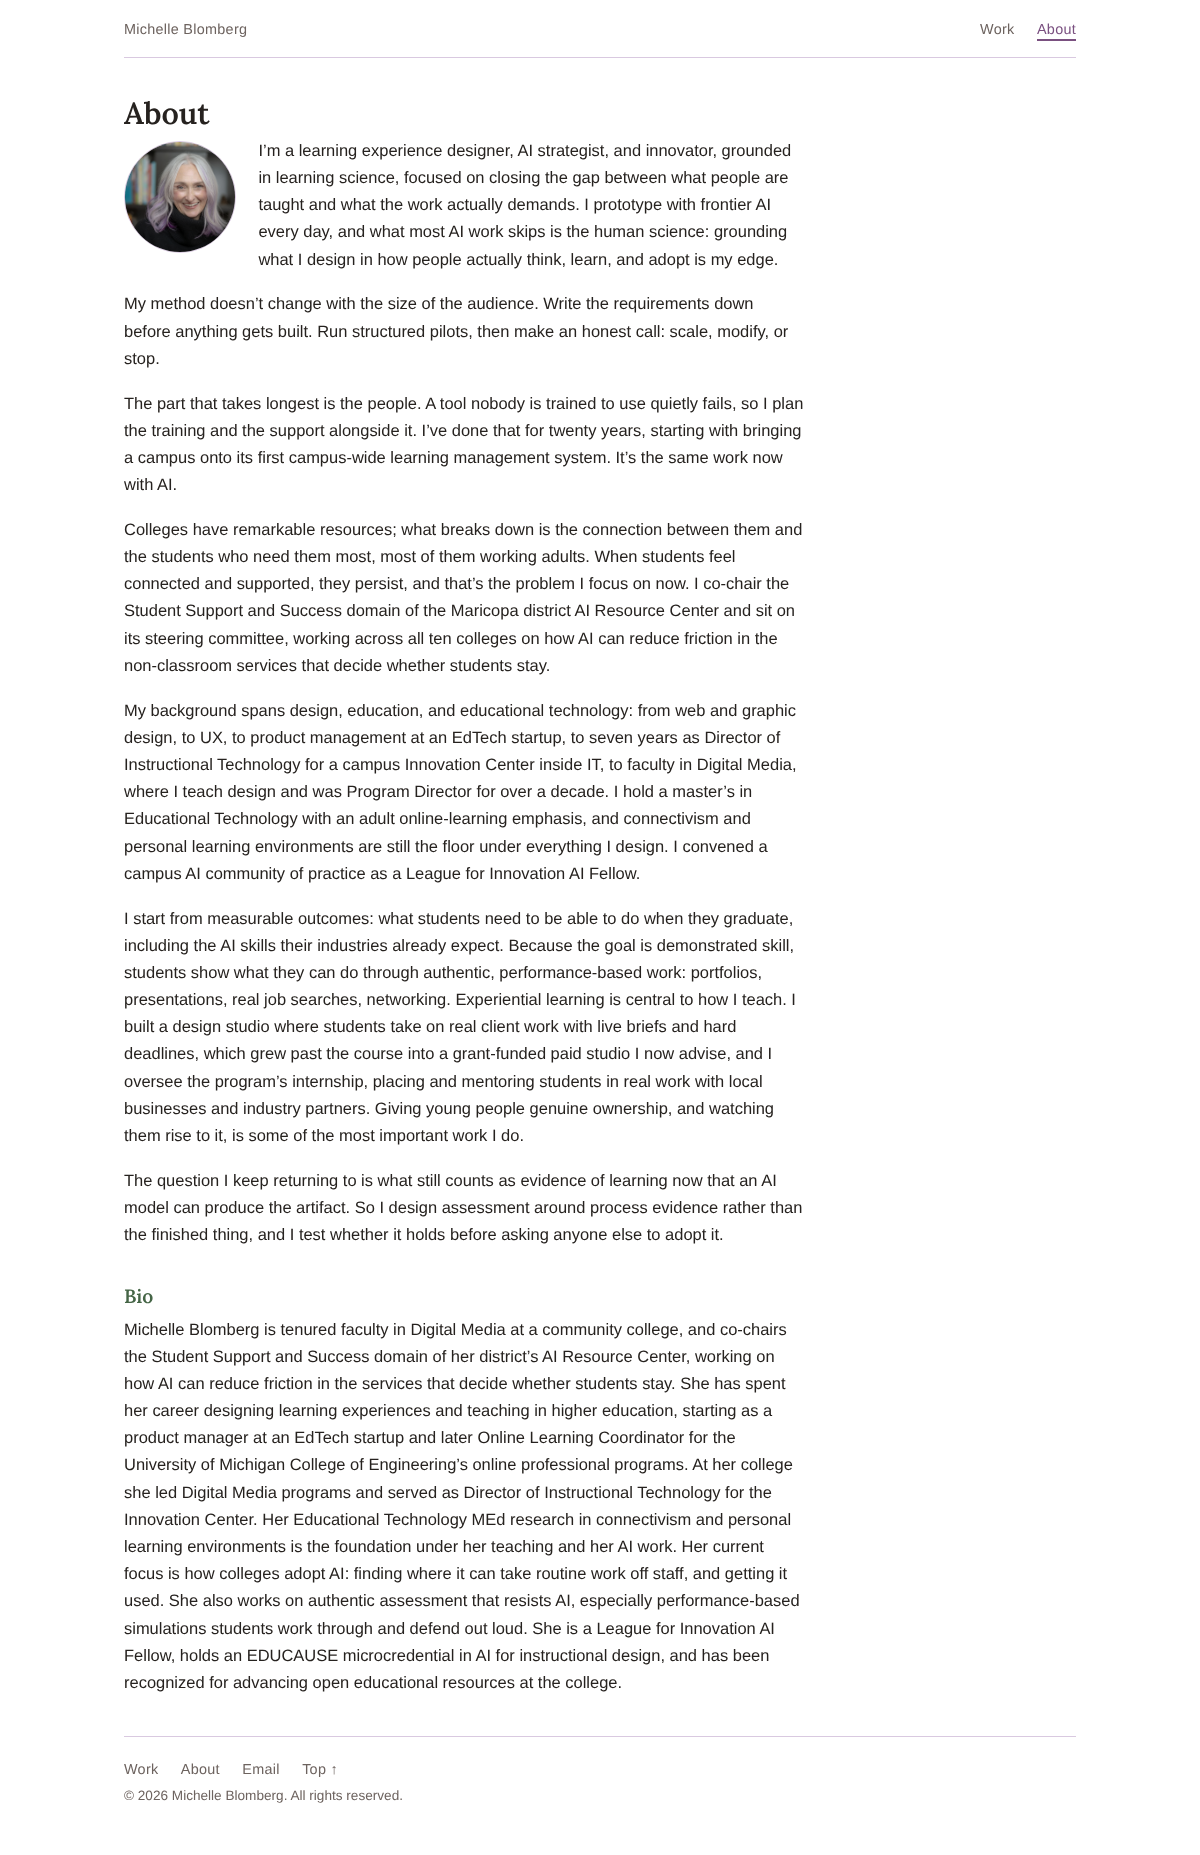
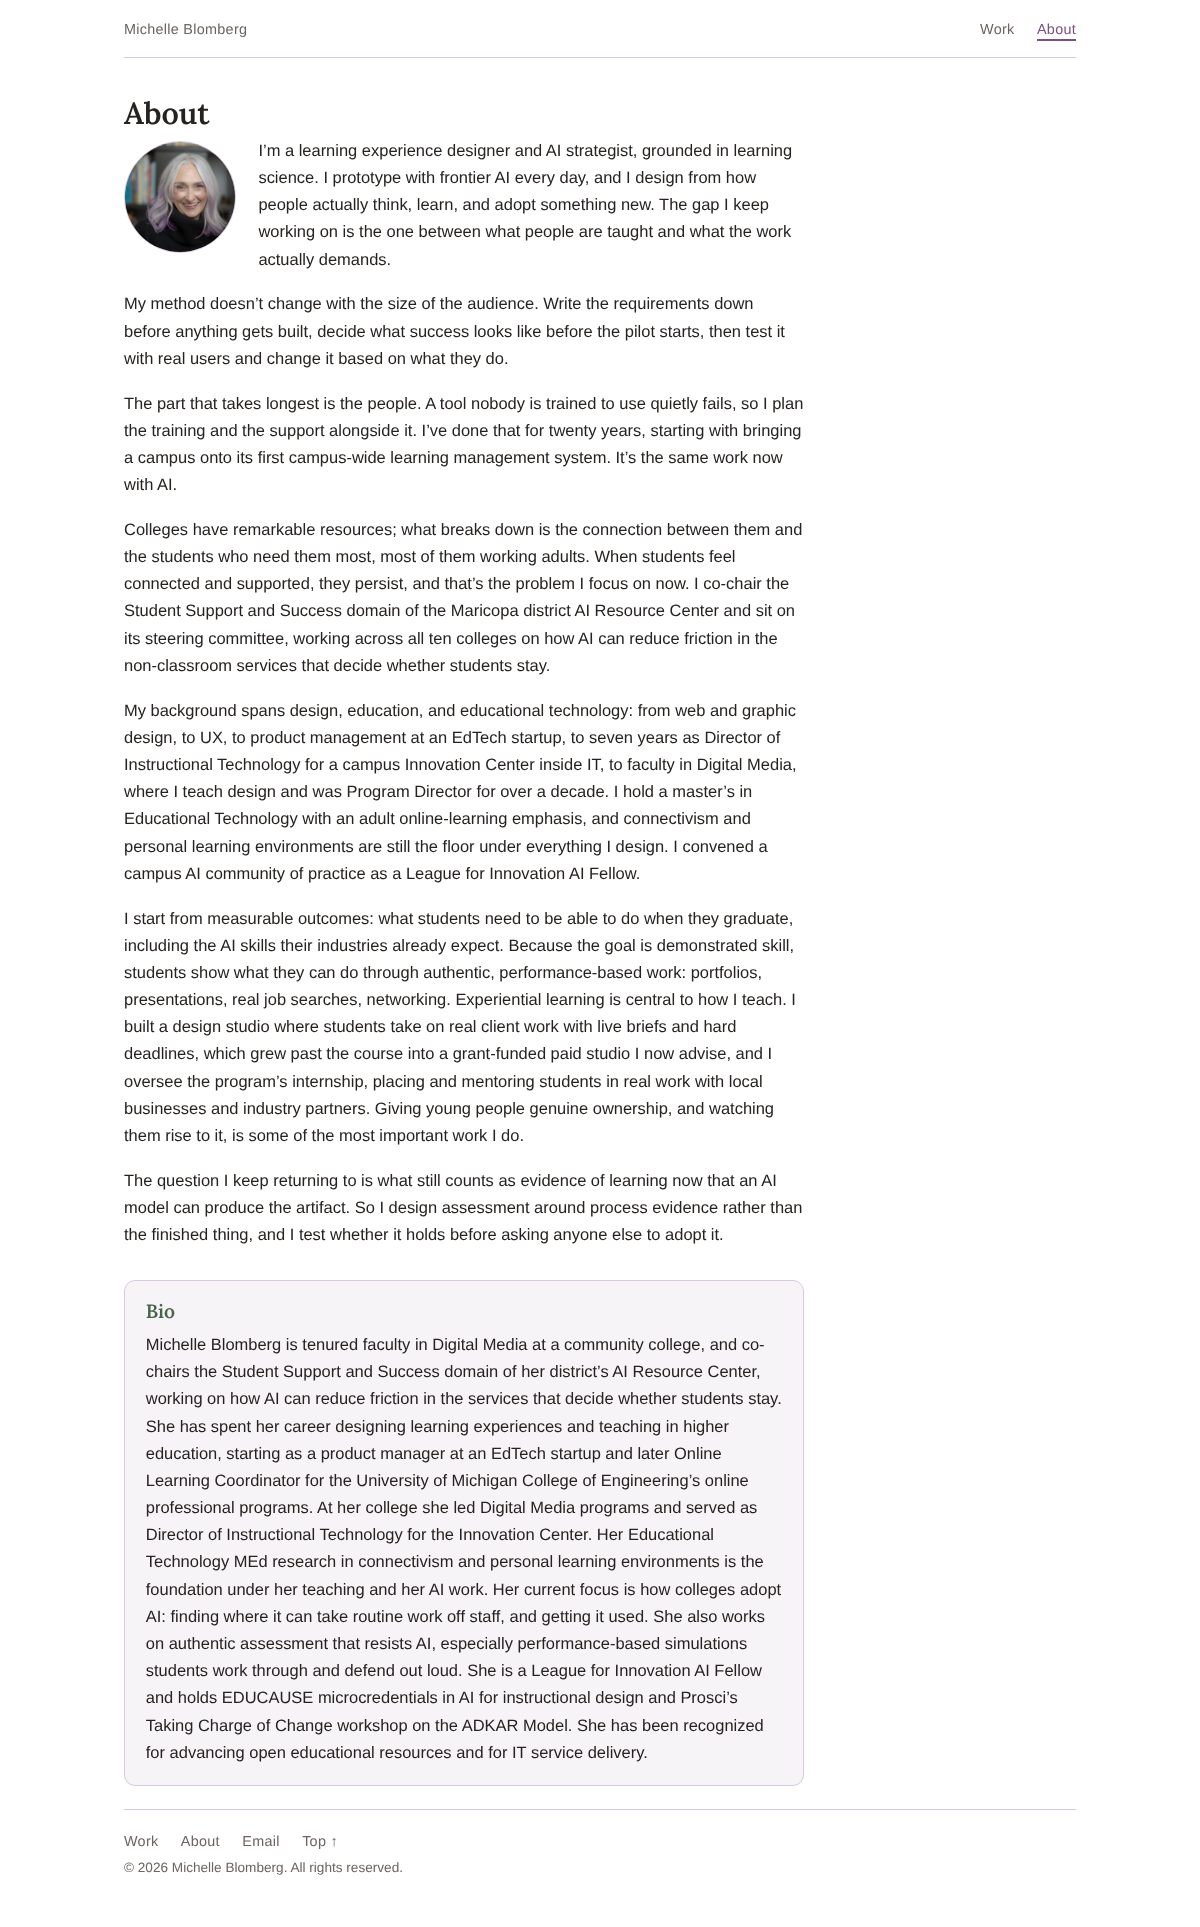
i have no idea what this is

Changed region(s): [[0.0925, 0.0307, 0.6783, 0.9218], [0.0925, 0.9526, 0.3083, 0.9833], [0.8633, 0.0, 0.8942, 0.0307]]

diff --git a/about.html b/about.html
@@ -6,7 +6,7 @@
 <meta name="description" content="About Michelle Blomberg.">
 <title>About, Michelle Blomberg</title>
 <link href="https://fonts.googleapis.com/css2?family=Lora:ital,wght@0,400;0,500;0,600;0,700;1,400;1,500;1,600;1,700&family=DM+Sans:wght@300;400;500;600;700&display=swap" rel="stylesheet">
-<link rel="stylesheet" href="/assets/site.css?v=20261002c">
+<link rel="stylesheet" href="/assets/site.css?v=20261006a">
 <link rel="icon" href="/favicon.ico" sizes="any">
 </head>
 <body>
@@ -33,8 +33,10 @@
     <p>My background spans design, education, and educational technology: from web and graphic design, to UX, to product management at an EdTech startup, to seven years as Director of Instructional Technology for a campus Innovation Center inside IT, to faculty in Digital Media, where I teach design and was Program Director for over a decade. I hold a master&rsquo;s in Educational Technology with an adult online-learning emphasis, and connectivism and personal learning environments are still the floor under everything I design. I convened a campus AI community of practice as a League for Innovation AI Fellow.</p>
     <p>I start from measurable outcomes: what students need to be able to do when they graduate, including the AI skills their industries already expect. Because the goal is demonstrated skill, students show what they can do through authentic, performance-based work: portfolios, presentations, real job searches, networking. Experiential learning is central to how I teach. I built a design studio where students take on real client work with live briefs and hard deadlines, which grew past the course into a grant-funded paid studio I now advise, and I oversee the program&rsquo;s internship, placing and mentoring students in real work with local businesses and industry partners. Giving young people genuine ownership, and watching them rise to it, is some of the most important work I do.</p>
     <p>The question I keep returning to is what still counts as evidence of learning now that an AI model can produce the artifact. So I design assessment around process evidence rather than the finished thing, and I test whether it holds before asking anyone else to adopt it.</p>
+    <div class="bio-box">
     <h2>Bio</h2>
     <p>Michelle Blomberg is tenured faculty in Digital Media at a community college, and co-chairs the Student Support and Success domain of her district&rsquo;s AI Resource Center, working on how AI can reduce friction in the services that decide whether students stay. She has spent her career designing learning experiences and teaching in higher education, starting as a product manager at an EdTech startup and later Online Learning Coordinator for the University of Michigan College of Engineering&rsquo;s online professional programs. At her college she led Digital Media programs and served as Director of Instructional Technology for the Innovation Center. Her Educational Technology MEd research in connectivism and personal learning environments is the foundation under her teaching and her AI work. Her current focus is how colleges adopt AI: finding where it can take routine work off staff, and getting it used. She also works on authentic assessment that resists AI, especially performance-based simulations students work through and defend out loud. She is a League for Innovation AI Fellow and holds EDUCAUSE microcredentials in AI for instructional design and Prosci&rsquo;s Taking Charge of Change workshop on the ADKAR Model. She has been recognized for advancing open educational resources and for IT service delivery.</p>
+    </div>
   </div>
 </main>
 

diff --git a/studies/gemini/assignments.html b/studies/gemini/assignments.html
@@ -6,7 +6,7 @@
 <meta name="robots" content="noindex, nofollow">
 <title>Examples of What Gemini Blocks for Students Under 18 &middot; Assignments &middot; Michelle Blomberg</title>
 <link href="https://fonts.googleapis.com/css2?family=Lora:ital,wght@0,400;0,500;0,600;0,700;1,400;1,500;1,600;1,700&family=DM+Sans:wght@300;400;500;600;700&display=swap" rel="stylesheet">
-<link rel="stylesheet" href="/assets/site.css?v=20261002c">
+<link rel="stylesheet" href="/assets/site.css?v=20261006a">
 <style>
 .arc details{max-width:820px;border-top:1px solid var(--lav-line);padding:0.7rem 0}
 .arc details summary{cursor:pointer;line-height:1.5}

diff --git a/studies/gemini/index.html b/studies/gemini/index.html
@@ -6,7 +6,7 @@
 <meta name="robots" content="noindex, nofollow">
 <title>Examples of What Gemini Blocks for Students Under 18 &middot; Overview &middot; Michelle Blomberg</title>
 <link href="https://fonts.googleapis.com/css2?family=Lora:ital,wght@0,400;0,500;0,600;0,700;1,400;1,500;1,600;1,700&family=DM+Sans:wght@300;400;500;600;700&display=swap" rel="stylesheet">
-<link rel="stylesheet" href="/assets/site.css?v=20261002c">
+<link rel="stylesheet" href="/assets/site.css?v=20261006a">
 <style>
 .arc details{max-width:820px;border-top:1px solid var(--lav-line);padding:0.7rem 0}
 .arc details summary{cursor:pointer;line-height:1.5}

diff --git a/studies/gemini/results.html b/studies/gemini/results.html
@@ -6,7 +6,7 @@
 <meta name="robots" content="noindex, nofollow">
 <title>Examples of What Gemini Blocks for Students Under 18 &middot; Results &middot; Michelle Blomberg</title>
 <link href="https://fonts.googleapis.com/css2?family=Lora:ital,wght@0,400;0,500;0,600;0,700;1,400;1,500;1,600;1,700&family=DM+Sans:wght@300;400;500;600;700&display=swap" rel="stylesheet">
-<link rel="stylesheet" href="/assets/site.css?v=20261002c">
+<link rel="stylesheet" href="/assets/site.css?v=20261006a">
 <style>
 .arc details{max-width:820px;border-top:1px solid var(--lav-line);padding:0.7rem 0}
 .arc details summary{cursor:pointer;line-height:1.5}

diff --git a/studies/gemini/prd.html b/studies/gemini/prd.html
@@ -6,7 +6,7 @@
 <meta name="robots" content="noindex, nofollow">
 <title>Examples of What Gemini Blocks for Students Under 18 &middot; PRD &middot; Michelle Blomberg</title>
 <link href="https://fonts.googleapis.com/css2?family=Lora:ital,wght@0,400;0,500;0,600;0,700;1,400;1,500;1,600;1,700&family=DM+Sans:wght@300;400;500;600;700&display=swap" rel="stylesheet">
-<link rel="stylesheet" href="/assets/site.css?v=20261002c">
+<link rel="stylesheet" href="/assets/site.css?v=20261006a">
 <style>
 .arc details{max-width:820px;border-top:1px solid var(--lav-line);padding:0.7rem 0}
 .arc details summary{cursor:pointer;line-height:1.5}

diff --git a/studies/gemini/references.html b/studies/gemini/references.html
@@ -6,7 +6,7 @@
 <meta name="robots" content="noindex, nofollow">
 <title>Examples of What Gemini Blocks for Students Under 18 &middot; References &middot; Michelle Blomberg</title>
 <link href="https://fonts.googleapis.com/css2?family=Lora:ital,wght@0,400;0,500;0,600;0,700;1,400;1,500;1,600;1,700&family=DM+Sans:wght@300;400;500;600;700&display=swap" rel="stylesheet">
-<link rel="stylesheet" href="/assets/site.css?v=20261002c">
+<link rel="stylesheet" href="/assets/site.css?v=20261006a">
 <link rel="icon" href="/favicon.ico" sizes="any">
 </head>
 <body>

diff --git a/assets/site.css b/assets/site.css
@@ -262,3 +262,7 @@ ul.stack li::marker{color:var(--sage-text)}
 .ask-dot{width:7px;height:7px;border-radius:50%;background:var(--sage);display:inline-block}
 @media(max-width:640px){.feat{grid-template-columns:1fr}.lead-intro{font-size:1.5rem}.brk{display:none}}
 @media(max-width:760px){.feature{grid-template-columns:1fr}}
+
+.bio-box{background:var(--plum-pale);border:1px solid var(--lav-line);border-radius:11px;padding:1.1rem 1.3rem 1.2rem;margin:2rem 0 0;max-width:720px}
+.bio-box h2{margin-top:0}
+.bio-box p{margin-bottom:0;max-width:none}

diff --git a/studies/journey/agents.html b/studies/journey/agents.html
@@ -6,7 +6,7 @@
 <meta name="robots" content="noindex, nofollow">
 <title>Student Journey Barriers Study &middot; Agents and ethics &middot; Michelle Blomberg</title>
 <link href="https://fonts.googleapis.com/css2?family=Lora:ital,wght@0,400;0,500;0,600;0,700;1,400;1,500;1,600;1,700&family=DM+Sans:wght@300;400;500;600;700&display=swap" rel="stylesheet">
-<link rel="stylesheet" href="/assets/site.css?v=20261002c">
+<link rel="stylesheet" href="/assets/site.css?v=20261006a">
 <link rel="icon" href="/favicon.ico" sizes="any">
 </head>
 <body>

diff --git a/studies/journey/next.html b/studies/journey/next.html
@@ -6,7 +6,7 @@
 <meta name="robots" content="noindex, nofollow">
 <title>Student Journey Barriers Study &middot; What happens next &middot; Michelle Blomberg</title>
 <link href="https://fonts.googleapis.com/css2?family=Lora:ital,wght@0,400;0,500;0,600;0,700;1,400;1,500;1,600;1,700&family=DM+Sans:wght@300;400;500;600;700&display=swap" rel="stylesheet">
-<link rel="stylesheet" href="/assets/site.css?v=20261002c">
+<link rel="stylesheet" href="/assets/site.css?v=20261006a">
 <link rel="icon" href="/favicon.ico" sizes="any">
 </head>
 <body>

diff --git a/studies/journey/progress.html b/studies/journey/progress.html
@@ -6,7 +6,7 @@
 <meta name="robots" content="noindex, nofollow">
 <title>Student Journey Barriers Study &middot; Progress &middot; Michelle Blomberg</title>
 <link href="https://fonts.googleapis.com/css2?family=Lora:ital,wght@0,400;0,500;0,600;0,700;1,400;1,500;1,600;1,700&family=DM+Sans:wght@300;400;500;600;700&display=swap" rel="stylesheet">
-<link rel="stylesheet" href="/assets/site.css?v=20261002c">
+<link rel="stylesheet" href="/assets/site.css?v=20261006a">
 <link rel="icon" href="/favicon.ico" sizes="any">
 </head>
 <body>

diff --git a/studies/journey/method.html b/studies/journey/method.html
@@ -6,7 +6,7 @@
 <meta name="robots" content="noindex, nofollow">
 <title>Student Journey Barriers Study &middot; Method &middot; Michelle Blomberg</title>
 <link href="https://fonts.googleapis.com/css2?family=Lora:ital,wght@0,400;0,500;0,600;0,700;1,400;1,500;1,600;1,700&family=DM+Sans:wght@300;400;500;600;700&display=swap" rel="stylesheet">
-<link rel="stylesheet" href="/assets/site.css?v=20261002c">
+<link rel="stylesheet" href="/assets/site.css?v=20261006a">
 <link rel="icon" href="/favicon.ico" sizes="any">
 </head>
 <body>

diff --git a/studies/journey/index.html b/studies/journey/index.html
@@ -6,7 +6,7 @@
 <meta name="robots" content="noindex, nofollow">
 <title>Student Journey Barriers Study &middot; Michelle Blomberg</title>
 <link href="https://fonts.googleapis.com/css2?family=Lora:ital,wght@0,400;0,500;0,600;0,700;1,400;1,500;1,600;1,700&family=DM+Sans:wght@300;400;500;600;700&display=swap" rel="stylesheet">
-<link rel="stylesheet" href="/assets/site.css?v=20261002c">
+<link rel="stylesheet" href="/assets/site.css?v=20261006a">
 <link rel="icon" href="/favicon.ico" sizes="any">
 </head>
 <body>
